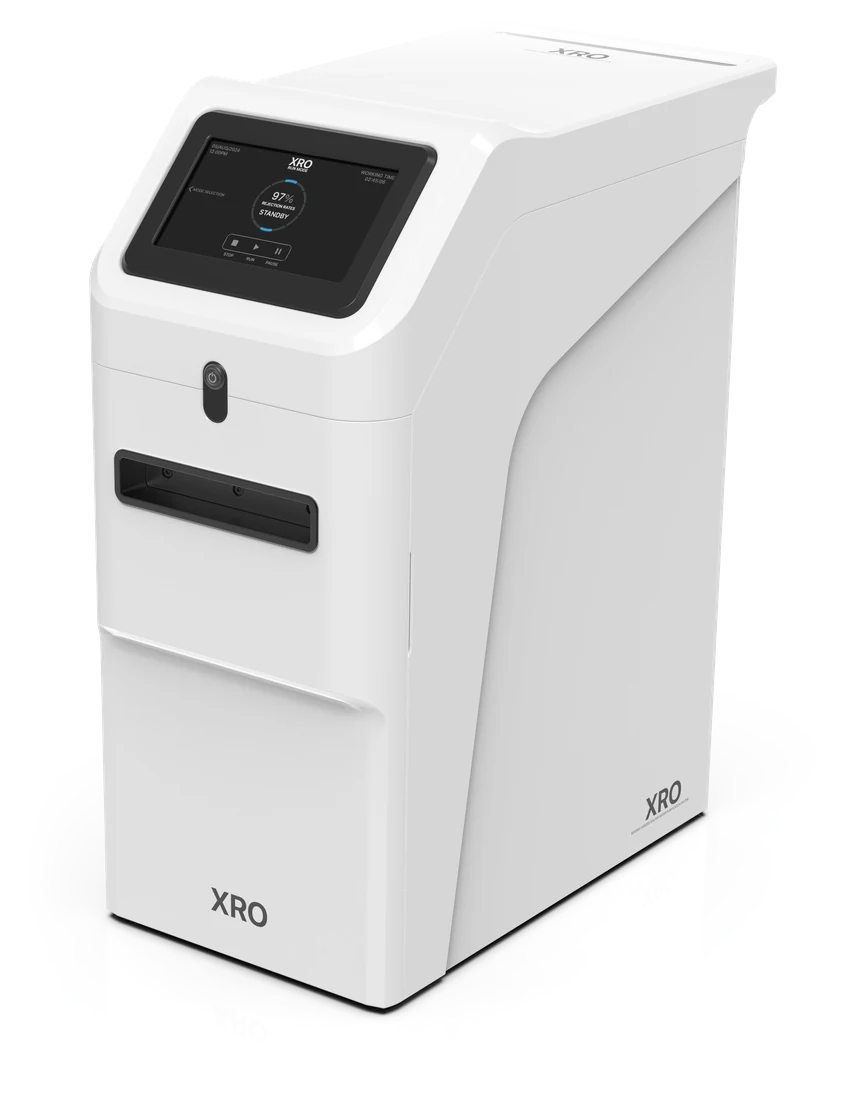
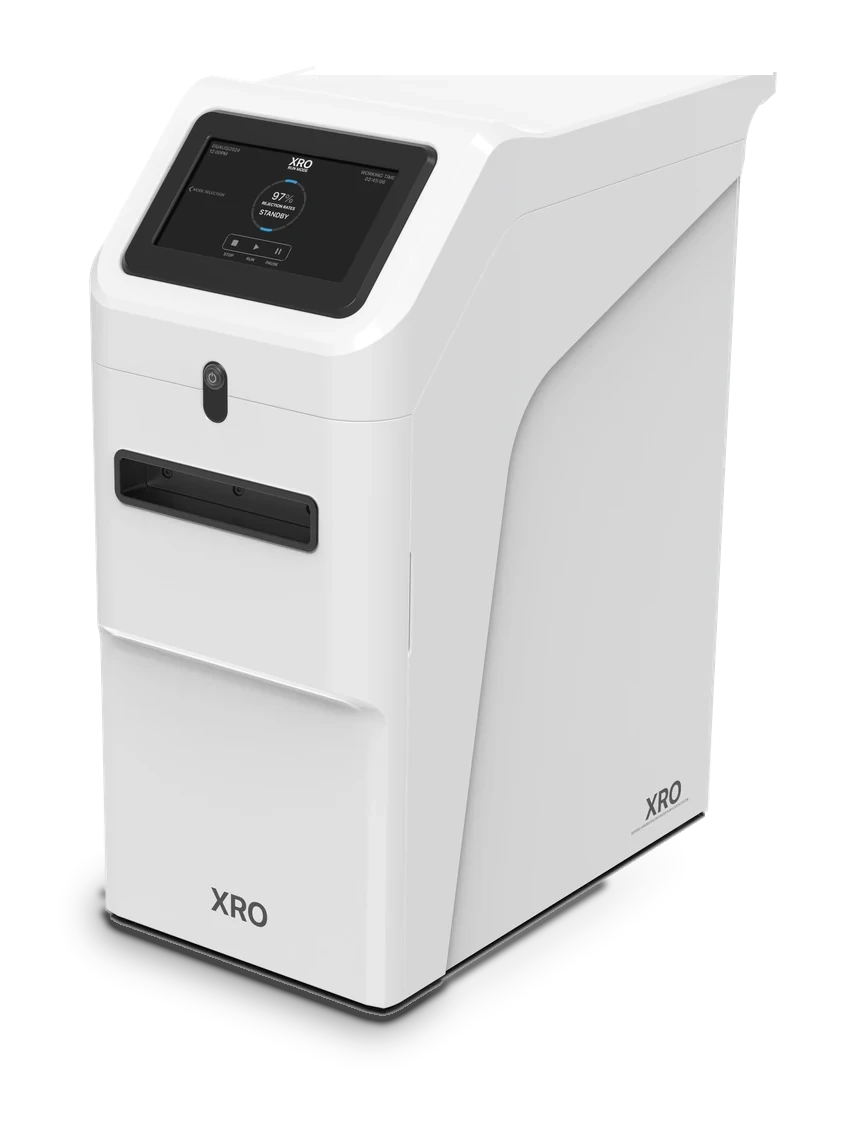
Add files via upload

diff --git a/xs.js b/xs.js
@@ -45,6 +45,8 @@
   // ---- layout + the dive schedule
   var L = {}, want = 0, shown = -1;
   function layout() {
+    // label box = its real text width, so number + label centre exactly under the line above
+    stats.forEach(function (s) { var sp = s.querySelector("span"); if (!sp) return; sp.style.width = ""; var r = document.createRange(); r.selectNodeContents(sp); var w = 0; Array.prototype.forEach.call(r.getClientRects(), function (c) { w = Math.max(w, c.width); }); if (w) sp.style.width = Math.ceil(w + 1) + "px"; });
     var W = pin.clientWidth, H = pin.clientHeight, mob = W <= 960, dpr = Math.min(window.devicePixelRatio || 1, 3);
     var mw = Math.min(W * (mob ? .98 : .6), (H - (mob ? 280 : 250)) * FW / FH, 1000), mh = mw * FH / FW;
     mach.style.setProperty("--mw", mw + "px");
@@ -85,7 +87,7 @@
     // numbers sit centred above the machine, the label to the right of each number
     statsBox.style.left = "50%"; statsBox.style.top = Math.max(mob ? 120 : 140, top0 + .137 * mh - (mob ? 44 : 62)) + "px";
     // one line that ties the three numbers together, between the menu bar and the numbers
-    if (tag) { var sTop = parseFloat(statsBox.style.top), nb = mob ? 76 : 90, th = tag.offsetHeight; tag.style.top = Math.max(nb + 12, sTop - (mob ? 44 : 70) - th) + "px"; }
+    if (tag) { var sTop = parseFloat(statsBox.style.top), nb = mob ? 76 : 90, th = tag.offsetHeight; tag.style.top = Math.max(nb + 12, sTop - (mob ? 58 : 94) - th) + "px"; }
     if (!cache.length) { load(0); load(NR - 1); load(NR); loadAll(); }
     shown = -1; update();
   }

diff --git a/index.html b/index.html
@@ -57,7 +57,6 @@
   <!-- 1. Statement -->
   <section class="sec wrap" id="why">
     <p class="say" id="say" data-ko="일주일에 세 번, 한 번에 네 시간. 지금까지는 삶이 치료에 맞춰야 했습니다. XKIDNEY는 치료가 환자를 찾아가도록 만들었습니다.">Three times a week, four hours at a time. Patients have always fit their lives around dialysis. XKIDNEY was built so treatment can move to where patients live.</p>
-    <svg class="flow" viewBox="0 0 1200 80" preserveAspectRatio="none" aria-hidden="true"><path class="f1" d="M0 30 C 200 10, 400 50, 600 30 S 1000 10, 1200 30"/><path class="f2" d="M0 50 C 200 70, 400 30, 600 50 S 1000 70, 1200 50"/></svg>
   </section>
 
   <!-- 2. Numbers -->
@@ -92,7 +91,7 @@
         <a class="pill line more" href="xkidney.html" data-ko="자세히 보기">Learn more</a>
       </article>
       <article class="dev">
-        <div class="pic"><img src="img/xro-2027.webp" alt="XRO" width="866" height="1100"></div>
+        <div class="pic"><img src="img/xro-2027.webp" alt="XRO" width="866" height="1144"></div>
         <h3>XRO</h3>
         <p class="what" data-ko="이동식 RO 정수 장치">Portable reverse osmosis</p>
         <ul>

diff --git a/xkidney.html b/xkidney.html
@@ -144,13 +144,13 @@
           <div><dt data-ko="크기 · 무게">Size · weight</dt><dd>557 × 250 × 430 mm</dd><dd class="v">32 kg</dd></div>
         </dl>
       </div>
-      <div class="pic"><img src="img/xro-2027.webp" alt="XRO" width="866" height="1100"></div>
+      <div class="pic"><img src="img/xro-2027.webp" alt="XRO" width="866" height="1144"></div>
     </div>
   </section>
 
   <section class="sec wrap" style="padding-top:0">
     <div class="split">
-      <div class="pic"><img src="img/system.webp" alt="XKIDNEY and XRO together on one cart" width="900" height="1586" style="max-height:560px"></div>
+      <div class="pic"><img src="img/system.webp" alt="XKIDNEY and XRO together on one cart" width="900" height="1636" style="max-height:560px"></div>
       <div style="display:grid;gap:var(--s3)">
         <span class="eyebrow" data-ko="시스템">System</span>
         <h2 class="title" data-ko="카트 하나에 <span>치료의 모든 것</span>">One cart. <span>The whole treatment.</span></h2>

diff --git a/style.css b/style.css
@@ -723,3 +723,4 @@ main[data-look] .teamline div, main[data-look] .addr div { }
 /* home dialysis page: photo sits closer to the heading */
 .phead.tight, html.snap main > section.phead.tight:first-child { padding-bottom: clamp(20px, 2.4vw, 36px) !important; }
 html.snap main > section.phead.tight + section, .phead.tight + section { padding-top: 0 !important; }
+@media (max-width: 700px) { .viewer .hint { margin-top: calc(var(--sw) * -0.03); } }

diff --git a/xs.css b/xs.css
@@ -53,3 +53,6 @@ html[lang=en] .xs-intro h1 { letter-spacing: -.032em; line-height: 1.06; }
 .xs-tag span { transition: color .35s var(--ease, ease); }
 .xs-tag span.on { color: var(--ink); }
 @media (max-width: 960px) { .xs-tag { font-size: clamp(24px, 7vw, 34px); } }
+/* number and label share one centre line: the middle of the digits */
+.xst { align-items: center; }
+.xst span, .xst i { position: relative; top: var(--xst-dy, 0px); }
